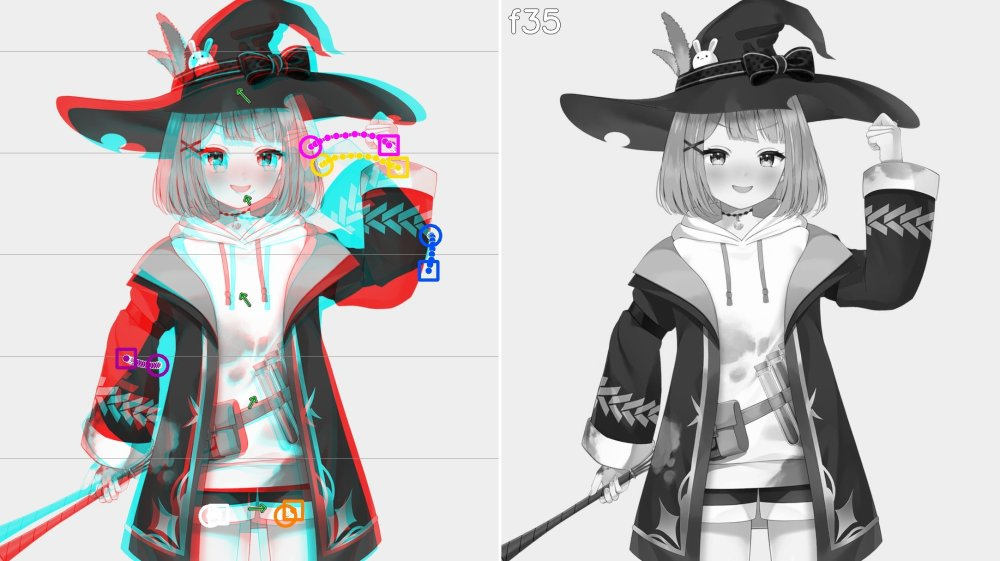
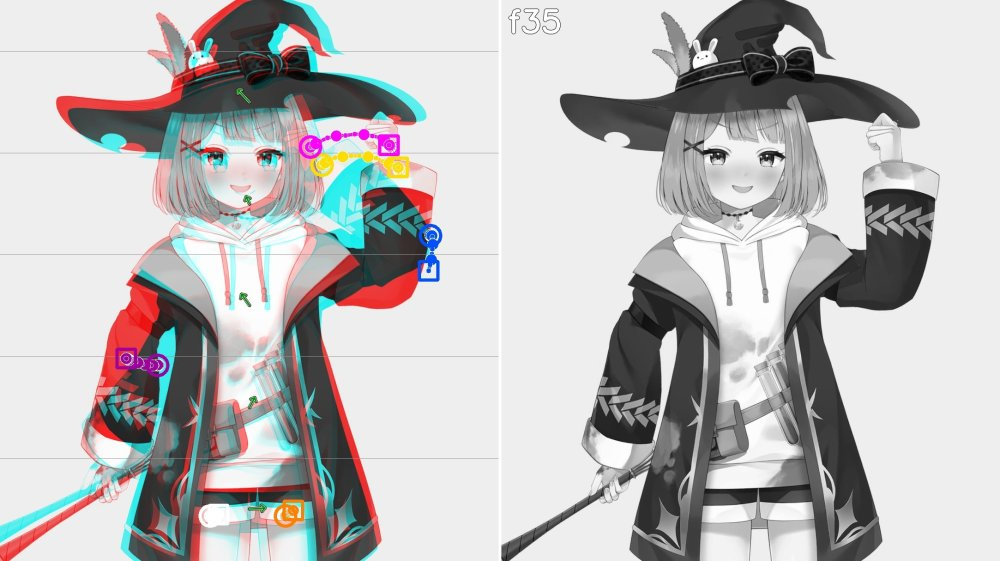
Onion trails: 0.1 s timing dots; screen-basis onion when end camera is unknown
- Trails draw a slightly larger dot every 0.1 s (fps-derived, per continuous
  run) so slowing shows as closer dots; per-frame dots are smaller.
- Since #65 the onion was skipped when a camera path existed but the end-frame
  translation was unknown (plain backgrounds, both README examples). Such
  windows now draw in screen coordinates, record onion_basis="screen", and
  label it in the line and the onion captions.
- README example images regenerated; captions mention the timing dots; the
  quoted example line carries the new 높이별 label. look-notes, manifest.

diff --git a/image_lens/onion.py b/image_lens/onion.py
@@ -18,7 +18,9 @@ def _box(bbox, w, h):
 
 # Each part's lead point (digest.limbs) drawn frame by frame on the onion: the overlay shows only start and end, the
 # trail shows how the part got there and where it bunched up (slow) or spread out (fast).
-TRAILS = dict(parts=6, dot=3, start=9, end=8, line=2, box=(440, 680),
+# Every frame's dot looked evenly spaced even where the speed fell (Live2D sweep: the hand went 21 -> 0 px/f in its last
+# 6 frames, steps over 3 frames 61 -> 54 -> 32 -> 10 px); a bigger dot at equal times makes the spacing readable.
+TRAILS = dict(parts=6, dot=2, tick=5, tick_seconds=.1, start=9, end=8, line=2, box=(440, 680),
               colors=((0, 220, 255), (255, 0, 255), (255, 80, 0), (0, 128, 255), (255, 255, 255), (160, 0, 160)),
               names=('노랑', '자홍', '파랑', '주황', '흰색', '보라'))  # BGR; not cyan, red or green, which the onion already uses
 
@@ -87,7 +89,8 @@ def bands(video, start, end, bbox, camera=None, image=None, trails=(), colors=No
     if image:
         if camera:  # trails have the camera taken out; without this the overlay showed a pan as motion (anime clip f180..209)
             last = cv2.warpAffine(last, np.float32([[1, 0, -cam[0]], [0, 1, -cam[1]]]), (w, h), borderMode=cv2.BORDER_REPLICATE)
-        _image(cv2, np, first, last, (x0, y0, x1, y1), result, image, trails, colors, named)
+        capture = cv2.VideoCapture(str(video)); fps = capture.get(cv2.CAP_PROP_FPS); capture.release()
+        _image(cv2, np, first, last, (x0, y0, x1, y1), result, image, trails, colors, named, fps)
     return result
 
 
@@ -120,7 +123,20 @@ def _frame_label(cv2, panel, n):
     outlined(cv2, panel, f'f{n}', (round(6*k), round(28*k)), .9*k, round(2*k))
 
 
-def _image(cv2, np, first, last, box, result, path, trails=(), colors=None, named=False):
+def ticks(frames, fps):
+    """Indexes of the timing dots: every TRAILS['tick_seconds'] from the start of each continuous run."""
+    if not fps or fps <= 0:
+        return set()
+    every = max(1, round(fps*TRAILS['tick_seconds'])); out = set(); run = None
+    for i, n in enumerate(frames):
+        if i == 0 or n != frames[i-1]+1:
+            run = n
+        elif (n-run) % every == 0:
+            out.add(i)
+    return out
+
+
+def _image(cv2, np, first, last, box, result, path, trails=(), colors=None, named=False, fps=None):
     x0, y0, x1, y1 = box
     a = cv2.cvtColor(first, cv2.COLOR_BGR2GRAY)[y0:y1, x0:x1]; b = last[y0:y1, x0:x1]
     picture = np.dstack([b, b, a])  # dark only at the start -> cyan, dark only at the end -> red
@@ -134,15 +150,17 @@ def _image(cv2, np, first, last, box, result, path, trails=(), colors=None, name
     # The sheet fits each onion in one tile, so a big person box shrinks more: a 1440 px clip's 3 px dots came out under
     # 1 px there. Sizes are for the solo dance clip's box (marks about 1.2 px on the sheet) and grow with larger boxes.
     k = _grow(y1-y0, x1-x0)
-    dot, start, end, line = (max(1, round(TRAILS[n]*k)) for n in ('dot', 'start', 'end', 'line'))
+    dot, tick, start, end, line = (max(1, round(TRAILS[n]*k)) for n in ('dot', 'tick', 'start', 'end', 'line'))
     for trail, color in zip(trails, colors or TRAILS['colors']):
         at = [(int(round(x-x0)), int(round(y-y0))) for _, x, y in trail['xy']]
         frames = [n for n, _, _ in trail['xy']]
         for i, (a, b) in enumerate(zip(at, at[1:])):
             if frames[i+1] == frames[i]+1:
                 cv2.line(picture, a, b, color, line)
-        for p in at:  # white rim: middle dots on a busy drawing were hard to find
-            cv2.circle(picture, p, dot+1, (255, 255, 255), -1); cv2.circle(picture, p, dot, color, -1)
+        timed = ticks(frames, fps)
+        for i, p in enumerate(at):  # white rim: middle dots on a busy drawing were hard to find
+            r = tick if i in timed else dot
+            cv2.circle(picture, p, r+1, (255, 255, 255), -1); cv2.circle(picture, p, r, color, -1)
         for i, p in enumerate(at):
             if i == 0 or frames[i] != frames[i-1]+1:
                 cv2.circle(picture, p, start, color, line)
@@ -345,7 +363,7 @@ def sheets(root, items):
     return written
 
 
-def lines(result, image_name=None):
+def lines(result, image_name=None, screen=False):
     from image_lens import motion_report
     parts = []
     for band in result:
@@ -357,10 +375,11 @@ def lines(result, image_name=None):
             parts.append(f"{band['band']} {motion_report.KO[motion_report.direction(band['dx'], band['dy'])].replace('화면 ', '')} {math.hypot(band['dx'], band['dy']):.0f}px")
     if not parts:
         return []
-    out = ['- 높이별 흐름 (사람 상자 5등분, 카메라 추정 시 평행이동 제외): ' + ' · '.join(parts)]
+    basis = '카메라 모름: 화면 좌표 그대로' if screen else '카메라 추정 시 평행이동 제외'
+    out = [f'- 높이별 흐름 (사람 상자 5등분, {basis}): ' + ' · '.join(parts)]
     if image_name:
         out.append(f"  - 어니언 그림: {image_name} (청록=시작, 빨강=끝(진한 윤곽선 기준; 배경보다 밝은 면은 띠 색이 반대(청록 띠=간 쪽); 카메라가 움직였으면 끝 프레임을 카메라만큼 되돌려 겹침), 초록 화살표=띠별 이동 ×{ONION['arrow_scale']}(그림 밖으로 나가면 줄임, 머리보다 짧으면 생략); 오른쪽 회색=시작과 가장 다른 가운데 프레임; "
-                   f"색 점선=부위별 대표 점(몸 기준이 없으면 '화면'에 적힌 점)의 프레임마다 위치({'·'.join(TRAILS['names'])} 순, 카메라 추정 시 평행이동 제외), 큰 원·네모=각 연속 관측의 시작·끝, 선 끊김=관측 누락, 이어진 점 간격이 좁으면 느림·넓으면 빠름)")
+                   f"색 점선=부위별 대표 점(몸 기준이 없으면 '화면'에 적힌 점)의 프레임마다 위치({'·'.join(TRAILS['names'])} 순, {basis}), 큰 원·네모=각 연속 관측의 시작·끝, 선 끊김=관측 누락, 이어진 점 간격이 좁으면 느림·넓으면 빠름, 조금 큰 점={TRAILS['tick_seconds']:g}초마다(그 간격이 좁아지면 느려짐))")
     return out
 
 

diff --git a/image_lens/digest.py b/image_lens/digest.py
@@ -270,7 +270,7 @@ def window_line(done, fps, first=None):
                 fields.append('추적 결과 없음: 움직임 모름')
         flow = _bands(done.get('bands'))
         if flow:
-            fields.append('높이별: ' + flow)
+            fields.append(('높이별(화면 좌표, 카메라 모름): ' if done.get('onion_basis') == 'screen' else '높이별: ') + flow)
     fields += events(done.get('events'), fps, done.get('facing'))
     fields += people(done.get('people'), fps)
     notes = []
@@ -439,7 +439,7 @@ def markdown(record, scan, full_name):
                        '단, 어니언에서 그 부위의 청록·빨강 윤곽선이 벌어진 만큼 궤적(과 글의 숫자)이 따라가지 않으면(짧거나 다른 방향) 추적이 미끄러진 것으로 의심한다(카메라 추정 시 어니언과 궤적의 평행이동을 뺐다).')
     if record.get('onion_sheets'):
         out.insert(-1, f"어니언 모음 그림: {', '.join(record['onion_sheets'])} (구간마다 청록=시작, 빨강=끝(진한 윤곽선 기준; 배경보다 밝은 면은 띠 색이 반대(청록 띠=간 쪽); 카메라가 움직였으면 끝 프레임을 카메라만큼 되돌려 겹침), 초록 화살표=높이별 이동, 오른쪽 회색=시작과 가장 다른 가운데 프레임: 돌거나 갔다 돌아오는 동작은 여기서 보임; "
-                       f"색 점선=각 줄 \"몸 기준\"의 부위 대표 점 궤적, 몸 기준이 없는 줄은 \"화면\"에 적힌 점의 궤적({'·'.join(onion.TRAILS['names'])} = 그 줄에 적힌 순서, 점 하나가 한 프레임, 카메라 추정 시 평행이동 제외, 큰 원=시작·큰 네모=끝, 점 간격이 좁으면 느림); "
+                       f"색 점선=각 줄 \"몸 기준\"의 부위 대표 점 궤적, 몸 기준이 없는 줄은 \"화면\"에 적힌 점의 궤적({'·'.join(onion.TRAILS['names'])} = 그 줄에 적힌 순서, 점 하나가 한 프레임, 카메라 추정 시 평행이동 제외, 큰 원=시작·큰 네모=끝, 점 간격이 좁으면 느림, 조금 큰 점={onion.TRAILS['tick_seconds']:g}초마다(그 간격이 좁아지면 느려짐)); "
                        '"who"=사람이 여럿인 구간의 P1·P2 상자; "still"=추적하기엔 짧은 컷의 한 장면, 붙어 있는 컷은 한 줄에 시간 순서; "strip"=몸 돌림 후보 구간의 프레임 5장을 시간 순서로). '
                        '손 모양(하트·브이)처럼 글에 안 나오는 동작은 그림에서 본다.')
     if record.get('frame_sheets'):

diff --git a/image_lens/look.py b/image_lens/look.py
@@ -453,13 +453,17 @@ def _run(video, detector, pose_model, checkpoint, out, max_shots=LOOK['max_shots
             from image_lens import onion
             picture = base.with_name(base.name+'-onion.jpg')
             try:
-                if frame_motion and cam is None:raise ValueError('onion unavailable: end-frame camera translation unknown')
+                # End-frame camera unknown (plain backgrounds): draw in screen coordinates and say so; dropping the
+                # picture left the plain-background README examples with no onion at all.
+                screen = bool(frame_motion) and cam is None
                 moving = cam
+                if screen:
+                    done['onion_basis'] = 'screen'
                 from image_lens import digest
                 # No trusted body: the "화면" moves stand in, in the order that line lists them (one trail per point).
                 leads = ([f['point'] for f in digest.limbs(done['body'])] if done.get('body')
                          else list(dict.fromkeys(m['point'] for m in digest._screen(done.get('groups', [])))))
-                done['trails'] = onion.trails(raw_packets, leads, w['seed'], end, frame_motion or None)
+                done['trails'] = onion.trails(raw_packets, leads, w['seed'], end, None if screen else frame_motion or None)
                 done['bands'] = onion.bands(source, w['seed'], end, person['bbox'], moving, picture, done['trails'])
                 if not done.get('body') and done['trails']:
                     hint = dict(frame=w['seed'], end=end, points=_seed_xy(raw_packets, [t['point'] for t in done['trails']], w['seed']))
@@ -470,7 +474,7 @@ def _run(video, detector, pose_model, checkpoint, out, max_shots=LOOK['max_shots
                 turns = [e['share'] for e in (done.get('events') or {}).get('width', []) if e['share'] >= body_motion.EVENTS['turn']]
                 if turns:
                     done['turn_share'] = max(turns); stripping.append((done, end, person['bbox'], base))
-                slot += ['  '+l for l in onion.lines(done['bands'], picture.name)]
+                slot += ['  '+l for l in onion.lines(done['bands'], picture.name, screen=done.get('onion_basis') == 'screen')]
             except Exception as error:  # OpenCV raises its own error type; the view is optional
                 errors.append(dict(window=w, step='onion', error=str(error)[:300]))
         if end < w['end']:

diff --git a/tests/test_onion.py b/tests/test_onion.py
@@ -121,6 +121,30 @@ class Trails(unittest.TestCase):
             self.assertEqual(rendered[100,160].tolist(),[128]*3)  # no inferred f1->f3 path
             self.assertEqual(rendered[100,270].tolist(),list(onion.TRAILS['colors'][0]))  # real f3->f4 remains
 
+    def test_timing_dots_every_tenth_of_a_second_from_each_run_start(self):
+        self.assertEqual(onion.ticks([0,1,2,3,4,5,6,7], 30), {3,6})
+        self.assertEqual(onion.ticks([0,1,2,3,4,5,6,7], 24), {2,4,6})
+        self.assertEqual(onion.ticks([0,1,2,3,10,11,12,13], 30), {3,7})  # the gap restarts the count
+        self.assertEqual(onion.ticks([0,1,2,3], None), set())
+
+    def test_screen_basis_is_named_in_the_onion_lines(self):
+        bands=[dict(band='맨 위',dx=20.,dy=0.)]
+        self.assertIn('카메라 모름: 화면 좌표 그대로',onion.lines(bands,'x-onion.jpg',screen=True)[0])
+        self.assertTrue(all('평행이동 제외' not in l for l in onion.lines(bands,'x-onion.jpg',screen=True)))
+        self.assertIn('카메라 추정 시 평행이동 제외',onion.lines(bands,'x-onion.jpg')[0])
+
+    def test_timing_dot_is_drawn_larger(self):
+        import tempfile
+        import cv2
+        import numpy as np
+        with tempfile.TemporaryDirectory() as d:
+            image=np.full((200,320,3),128,np.uint8);out=Path(d)/'ticks.png'
+            onion._image(cv2,np,image,cv2.cvtColor(image,cv2.COLOR_BGR2GRAY),(0,0,320,200),[],out,
+                         [dict(point='wrist-l',xy=[(n,40+30*n,100) for n in range(8)])],fps=30)
+            rendered=cv2.imread(str(out)).astype(int);yellow=np.array(onion.TRAILS['colors'][0])
+            def wide(x):return int((abs(rendered[90:111,x-12:x+13]-yellow).sum(2)<90).sum())
+            self.assertGreater(wide(40+30*3),wide(40+30*2))  # f3 is a timing dot, f2 is not
+
     # A large person box shrinks more in the onion sheet; fixed 3 px dots read as single markers there.
     def test_trail_marks_grow_with_the_person_box(self):
         import tempfile

diff --git a/docs/README.en.md b/docs/README.en.md
@@ -74,7 +74,7 @@ It also makes pictures:
 One line from the `look.md` of a live-action solo dance video, the span where the dancer lifts a knee (shortened with `…`). The output text is Korean.
 
 ```text
-- 15.44–16.32s f386..407 | 전신 | 정면(사람 왼쪽=화면 오른쪽) | 팔 자세: 왼팔 가슴 높이·오른팔 허리 아래 그대로 | 전체: 카메라 모름(5%만 맞춤), 몸 왼쪽 아래 33px(속도 2.5→2.2→1.6→1.4→0.8 px/f) | 몸 기준: 오른다리(화면 왼쪽: 발목·무릎·허벅지) 오른쪽 위 147px(속도 13.3→13.3→12.2→10.4→10.2 px/f, 앞선 동작은 모름) → 오른쪽 51px(속도 9.2→7.3→5.8→6 px/f), 몸 바깥으로; 왼다리(화면 오른쪽: 허벅지·발목·무릎) 위 74px(…), 몸 쪽으로; … | 높이별: 왼쪽 아래 33 / ? / 왼쪽 위 25 / 오른쪽 위 45 / 오른쪽 아래 14 (…) | 몸 돌림 후보(어깨 폭 크게 변함, 포즈가 튄 것일 수도; 그동안 어깨 높이는 안 씀): 15.44–15.88s | …
+- 15.44–16.32s f386..407 | 전신 | 정면(사람 왼쪽=화면 오른쪽) | 팔 자세: 왼팔 가슴 높이·오른팔 허리 아래 그대로 | 전체: 카메라 모름(5%만 맞춤), 몸 왼쪽 아래 33px(속도 2.5→2.2→1.6→1.4→0.8 px/f) | 몸 기준: 오른다리(화면 왼쪽: 발목·무릎·허벅지) 오른쪽 위 147px(속도 13.3→13.3→12.2→10.4→10.2 px/f, 앞선 동작은 모름) → 오른쪽 51px(속도 9.2→7.3→5.8→6 px/f), 몸 바깥으로; 왼다리(화면 오른쪽: 허벅지·발목·무릎) 위 74px(…), 몸 쪽으로; … | 높이별(화면 좌표, 카메라 모름): 왼쪽 아래 33 / ? / 왼쪽 위 25 / 오른쪽 위 45 / 오른쪽 아래 14 (…) | 몸 돌림 후보(어깨 폭 크게 변함, 포즈가 튄 것일 수도; 그동안 어깨 높이는 안 씀): 15.44–15.88s | …
 ```
 
 - `15.44–16.32s f386..407`: time and source frame numbers, to trace back to the video.
@@ -87,7 +87,7 @@ One line from the `look.md` of a live-action solo dance video, the span where th
 
 <p align="center"><img src="../assets/example-onion.jpg" width="420" alt="An onion picture made by look. On the left the start frame (cyan) and end frame (red) are overlaid; a yellow dotted trail follows the right leg from low up to knee height, and green arrows show movement by height. On the right is the middle frame f403 with the knee raised."></p>
 
-The onion skin of the same span. The left side overlays the start (cyan) and the end (red). The dotted trails are the parts in the order `몸 기준` lists them: yellow (right leg), magenta (left leg), blue (left arm)… One dot is one frame, a circle the start, a square the end. Green arrows are the `높이별` movement. The right side is the middle frame most different from the start (f403).
+The onion skin of the same span. The left side overlays the start (cyan) and the end (red). The dotted trails are the parts in the order `몸 기준` lists them: yellow (right leg), magenta (left leg), blue (left arm)… One dot is one frame; a slightly bigger dot marks every 0.1 s, so where those get closer the part slowed down. A circle is the start, a square the end. Green arrows are the `높이별` movement. The right side is the middle frame most different from the start (f403).
 
 The tool was also confused in this example: the shoulder width changed as the leg came up, so a turn candidate was marked although the body did not turn. The left arm's speed also came out unknown.
 

diff --git a/docs/look-notes.md b/docs/look-notes.md
@@ -307,3 +307,9 @@ On nine authored paths, the three brief-excursion amplitude errors fall from 33.
 The body-relative path had a separate median3 that still reduced an authored 90px return to60px and moved its turn from f9 to f8. It now refines an already-detected corner to a supported observed apex at the same frame or one neighbour, sharing the screen report's support rule. Both adjacent segments must keep their threshold-pass state and direction sector; rejected candidates leave the original corner intact. No new corner is added, so small restored movements cannot displace later strokes from the output cap. Body reference, selected/raw source guards, pose-event filtering and raw stroke-local timing remain unchanged.
 
 The authored return now retains90px and f9. Isolated-error, below-resolution and neighbouring-weaker-corner regressions protect against false motion and lost output. In three recorded style contexts, available limb identities, returned direction sequences and omitted counts were preserved; the flat2D output was unchanged and the SD context had no selected body route. Independent source-only visual annotations used screen or approximate torso references, so they did not establish exact shoulder-relative timing truth. This change does not establish improved real-video ease accuracy. Coherent tracker errors and missing body observations remain limitations.
+
+## Timing dots and screen-basis onions (2026-11-02)
+
+Every frame's trail dot looked evenly spaced even where the speed fell: in the Live2D sweep the hand point moved 18-21 px/f for ten frames and then 15, 11, 6, 7, 3, 0, and the last six dots merged into one blob. Trails now draw a slightly larger dot every 0.1 s (fps-derived, counted from the start of each continuous run); the same point's steps over three frames read 39, 61, 54, 32, 10 px, which shows the settle at a glance. Per-frame dots stay, smaller.
+
+The coordinate fix (#65) dropped the onion entirely when a camera path existed but its end-frame translation was unknown. On plain backgrounds that is the usual case (both README examples), and the picture the summary calls the main evidence disappeared. Such windows now draw the onion and trails in screen coordinates, record `onion_basis: "screen"`, and say so in the line (`높이별(화면 좌표, 카메라 모름)`) and in the onion captions.
